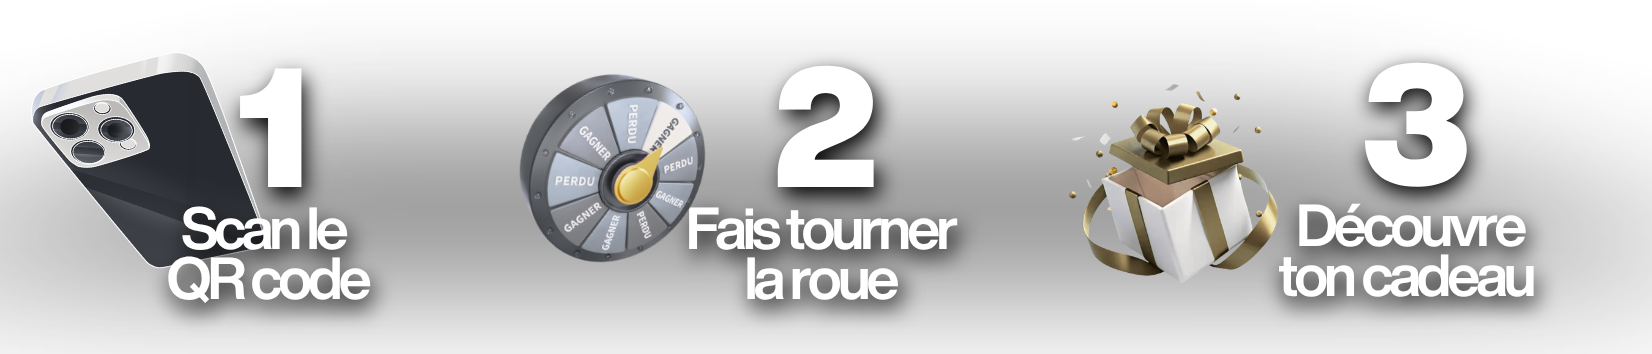
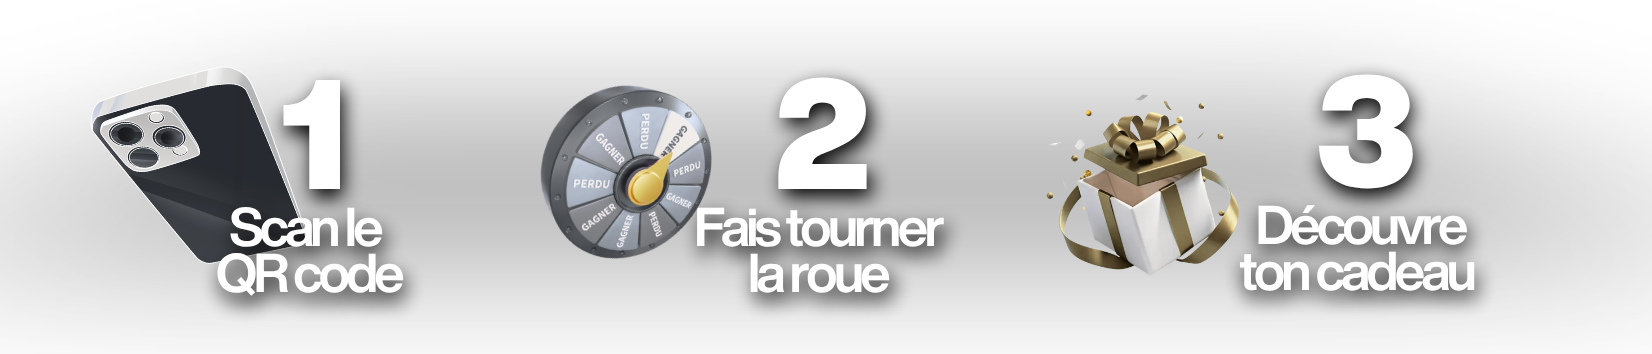
Deploy: mise à jour 2026-03-31

diff --git a/frontend/src/features/app-flyer-qr-draw.js b/frontend/src/features/app-flyer-qr-draw.js
@@ -275,19 +275,11 @@ function drawFooterBanner(ctx, w, canvasH, bottomY, img) {
   const iw = img.naturalWidth || img.width;
   const ih = img.naturalHeight || img.height;
   if (!iw || !ih) return;
-  const drawW = w;
-  let drawH = (drawW * ih) / iw;
   const maxH = canvasH * FLYER_LAYOUT.footerBannerMaxHeightFrac;
-  if (drawH > maxH) {
-    drawH = maxH;
-    const drawW2 = (drawH * iw) / ih;
-    const x0 = (w - drawW2) / 2;
-    const yTop = bottomY - drawH;
-    ctx.drawImage(img, x0, yTop, drawW2, drawH);
-    return;
-  }
-  const yTop = bottomY - drawH;
-  ctx.drawImage(img, 0, yTop, drawW, drawH);
+  const bleed = Math.max(2, Math.round(w * 0.003));
+  const yTop = bottomY - maxH;
+  // Full-bleed : l'image touche bien les bords gauche/droite du flyer.
+  drawImageCover(ctx, img, -bleed, yTop, w + bleed * 2, maxH);
 }
 
 /**
@@ -548,10 +540,10 @@ export async function renderFlyerCanvas(canvas, s, qrTargetUrl, logoInput, bgInp
   const stripH = flyerSocialStripHeight(h, socialEntries.length);
   const bannerBottom = h - stripH;
   const [stepIcons, footerBannerImg] = await Promise.all([loadFooterStepIcons(), getFlyerFooterBanner()]);
-  if (stepIcons && stepIcons.length === 3) {
-    drawFooterStepsWithIcons(ctx, w, h, bannerBottom, s, stepIcons);
-  } else if (footerBannerImg) {
+  if (footerBannerImg) {
     drawFooterBanner(ctx, w, h, bannerBottom, footerBannerImg);
+  } else if (stepIcons && stepIcons.length === 3) {
+    drawFooterStepsWithIcons(ctx, w, h, bannerBottom, s, stepIcons);
   } else {
     drawFooterBar(ctx, w, h, s, stripH);
   }
